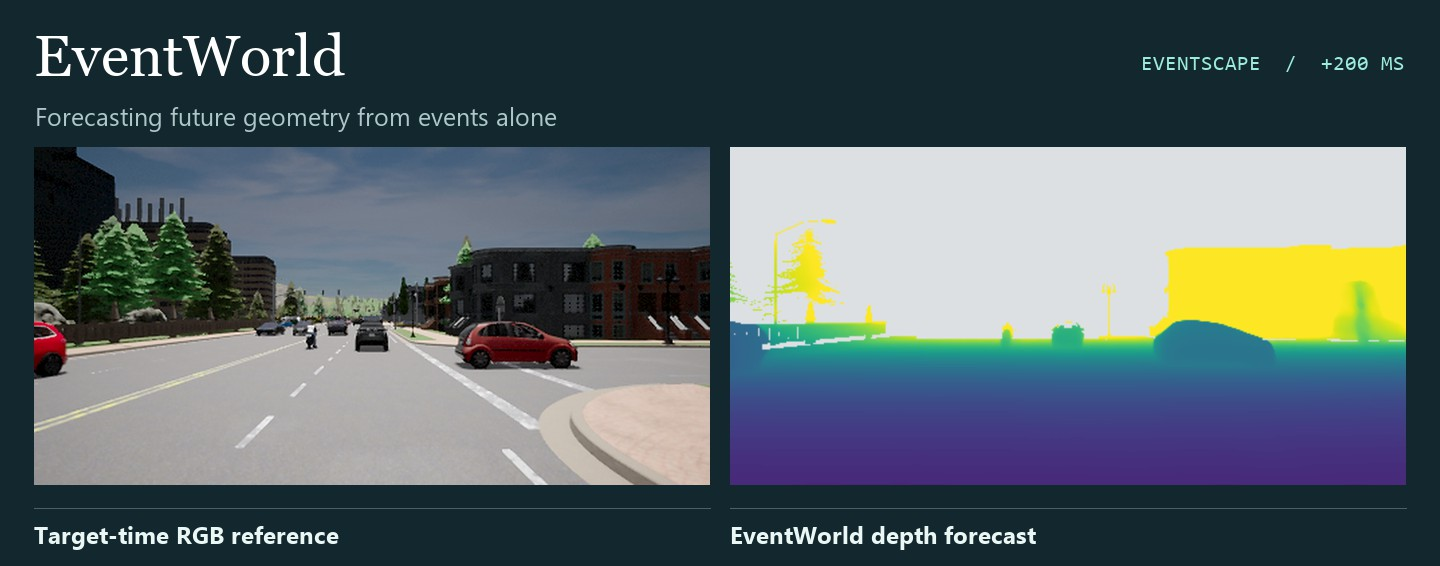
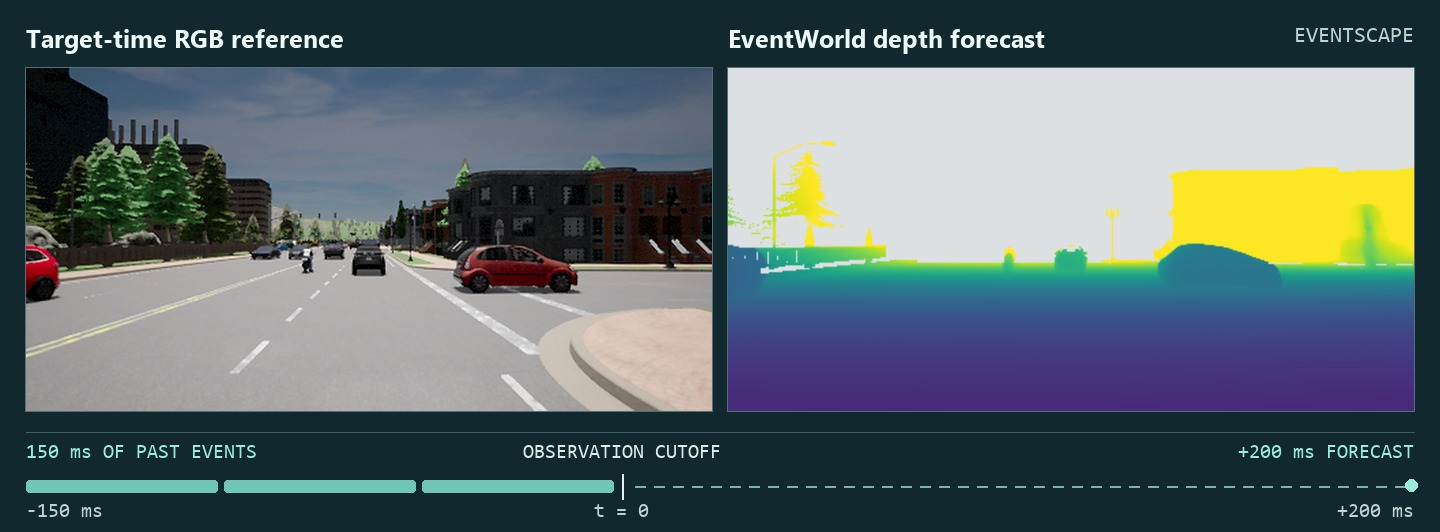
Refine EventWorld repository presentation

diff --git a/README.md b/README.md
@@ -1,41 +1,51 @@
-# EventWorld
+<h1 align="center">EventWorld</h1>
+<p align="center"><strong>Forecasting Future Geometry from Events Alone</strong></p>
+<p align="center">
+  <a href="#driving-previews">Driving demos</a> &nbsp;·&nbsp;
+  <a href="#method">Method</a> &nbsp;·&nbsp;
+  <a href="#results">Results</a> &nbsp;·&nbsp;
+  <a href="#project-film">Film</a> &nbsp;·&nbsp;
+  <a href="README.zh-CN.md">中文</a>
+</p>
 
-**Forecasting Future Geometry from Events Alone**
+![An EventScape street scene beside EventWorld's 200 ms depth forecast, with a timeline from the three past event packets to the forecast time.](media/forecast-preview.jpg)
 
-EventWorld forecasts what a scene will look like geometrically at a chosen future time. It takes **150 ms of camera events** and produces **depth, point clouds, and camera poses** through a shared geometry decoder.
+EventWorld turns **150 ms of camera events** into a forecast of **depth, point clouds, and camera poses** at a chosen future time. Its horizon-conditioned predictor generates the requested state in one forward pass.
 
-**[Driving previews](#driving-previews)** · **[Method](#method)** · **[Experimental results](#results)** · **[Project film](#project-film)** · **[中文介绍](README.zh-CN.md)**
-
-![An EventScape street scene at the target time beside EventWorld's 200 ms depth forecast.](media/forecast-preview.jpg)
+| EventScape Town05 | DSEC low-light driving | Inference on NVIDIA A100 |
+| :--- | :--- | :--- |
+| **19.1%** lower mean AbsRel than DriveLaW (RGB) | **50.4%** lower mean AbsRel than VGGT-World (RGB) on one recording | **≈0.28 s** per query across 200–800 ms |
 
 ## Driving previews
 
-Each clip shows the target-time RGB reference alongside EventWorld's depth forecast at **+200 ms**. The forecast uses only events recorded before the observation cutoff.
+The clips show a **+200 ms** depth forecast beside the RGB frame at that time. EventWorld uses events recorded before the observation cutoff.
 
-![Urban street sequence showing synchronized target-time RGB and forecast depth at 200 ms.](media/urban-forecast.gif)
+![Bridge bend sequence showing synchronized RGB and forecast depth at 200 ms.](media/bridge-forecast.gif)
 
 <details>
-<summary>Bridge bend sequence</summary>
+<summary>Urban street sequence</summary>
 
-![Bridge sequence showing synchronized target-time RGB and forecast depth at 200 ms.](media/bridge-forecast.gif)
+![Urban street sequence showing synchronized RGB and forecast depth at 200 ms.](media/urban-forecast.gif)
 
 </details>
 
 ## Method
 
-Camera events capture brightness changes. Moving edges reveal scene structure and motion, including in recordings where RGB frames are dark or blurred. EventWorld learns to combine these signals and query the future at a supplied horizon.
+Moving edges generate brightness changes that carry information about both geometry and motion. EventWorld combines the two signals to forecast a scene’s future state.
 
 ![EventWorld architecture showing the two event encoders, geometry-guided fusion, horizon-conditioned predictor, and geometry outputs.](media/method.webp)
 
-1. **Encode the event history.** Frozen EventVGGT and TESPEC encoders extract geometric states and temporal features from three 50 ms event packets.
-2. **Fuse and forecast.** Geometry guides the weighting of temporal features at each patch. The predictor takes the fused history and the requested horizon and predicts that future state in a single forward pass.
-3. **Decode the geometry.** A shared frozen decoder reads the forecast state alongside the original historical states. The training target comes from encoding events at the target time, so training the forecaster requires no depth or pose annotations.
+1. **Encode.** Frozen EventVGGT and TESPEC encoders extract geometry and motion features from three 50 ms event packets.
+2. **Fuse and forecast.** Geometry guides the weighting of motion features at each patch. The fused history and the requested horizon condition a direct forecast.
+3. **Decode.** A shared frozen decoder reads the forecast state alongside the original history to recover depth, point clouds, and camera poses.
+
+Targets come from encoding events at the forecast time. This supervision lets the forecaster train without depth or pose annotations.
 
 ## Results
 
 ### Depth on held-out EventScape Town05
 
-EventWorld has the lowest **AbsRel** at all four reported horizons. Relative to DriveLaW, the strongest RGB baseline by mean AbsRel, it lowers mean AbsRel by **19.1%** and reaches a comparable mean δ₁ (**90.13%** versus **90.17%**).
+EventWorld achieves the lowest AbsRel at all four reported horizons. The margin over DriveLaW (RGB) widens from **0.0007** at 200 ms to **0.0376** at 800 ms. Mean δ₁ is **90.13%** for EventWorld and **90.17%** for DriveLaW.
 
 | Method | Input | 200 ms | 400 ms | 600 ms | 800 ms | Mean AbsRel ↓ | Mean δ₁ ↑ |
 | :--- | :--- | ---: | ---: | ---: | ---: | ---: | ---: |
@@ -44,7 +54,7 @@ EventWorld has the lowest **AbsRel** at all four reported horizons. Relative to 
 | VGGT-World | RGB | 0.0917 | 0.1131 | 0.1862 | 0.1645 | 0.1389 | 87.09% |
 | Copy-last | Events | 0.1202 | 0.1616 | 0.1903 | 0.2122 | 0.1711 | 78.30% |
 
-The four horizon columns report AbsRel. The evaluation uses 238 windows from the Town05 test archive and scores non-sky reference depths within 30 m after per-prediction median scale alignment. [Complete EventScape depth table (CSV)](results/eventscape-depth.csv)
+The four horizon columns report AbsRel. Evaluation uses **238 Town05 test windows** and non-sky reference depths within 30 m after per-prediction median scale alignment. [Full results (CSV)](results/eventscape-depth.csv)
 
 ![EventScape depth forecasts, ground truth, and signed depth errors in two scenes at 200 and 800 ms.](media/eventscape-depth.webp)
 
@@ -83,14 +93,12 @@ EventWorld transfers from EventScape without fine-tuning on these recordings. Th
 
 ![Examples of DSEC low-light driving and PEOD high-speed motion with signed relative depth errors at a 400 ms forecast horizon.](media/transfer-qualitative.webp)
 
-### Efficiency and scope
+### Scope
 
-On an NVIDIA A100, inference takes about **0.28 s per query** across the measured 200–800 ms horizons. The encoded history can be shared across queries. EventWorld returns a single prediction at each requested horizon. When both the camera and the scene are still, sparse events limit what it can observe.
+EventWorld returns a single prediction per horizon and can reuse the encoded history across queries. When both the camera and the scene are still, sparse events limit what it can observe.
 
 ## Project film
 
-The film covers the method, both driving sequences, and the forecasting experiments.
-
-![EventWorld project film poster.](media/film-poster.webp)
+<img src="media/film-poster.webp" width="640" alt="EventWorld project film poster">
 
 [Full film (.mp4)](media/eventworld-film.mp4) · [English captions (.vtt)](media/film.en.vtt) · [Interactive comparison](http://40.81.25.249/#driving)
